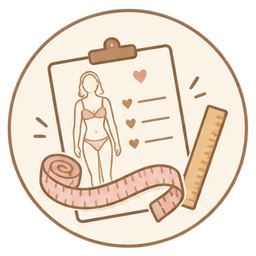
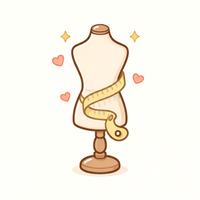
換上韓系可愛風格的頂部圖示
身型、色彩、搭配、訂單換成 Canva 產生的新插畫，並補上一圈細圓框；
購物車暫時維持原圖。圖片網址加 ?v=2 避免瀏覽器快取舊圖。

diff --git a/index.html b/index.html
@@ -195,6 +195,8 @@ body {
   letter-spacing: 0.5px;
   pointer-events: none;
 }
+/* ★ 新版韓系圖示（Canva 產生，圖裡沒畫圓框）補一圈和舊圖一致的細框 */
+.cart-btn-icon.icon-ring { box-sizing: border-box; border: 1.5px solid #A68968; background: #FFFBF2; }
 .cart-btn-img:hover .cart-btn-label { transform: translateX(-50%) scale(0.91); } /* 抵銷按鈕放大，字不跟著變大 */
 .cart-btn-icon {
   width: 100%;
@@ -3444,18 +3446,18 @@ body.halloween-mode .product-card:active {
       <input type="text" class="search-input" id="searchInput" placeholder="搜尋商品..." autocomplete="off">
     </div>
     <button class="cart-btn cart-btn-img" onclick="goBodyCheck()" aria-label="身型診斷" title="身型診斷">
-      <img src="./icons/body-check.png" alt="" class="cart-btn-icon"><span class="cart-btn-label">身型</span>
+      <img src="./icons/body-check.png?v=2" alt="" class="cart-btn-icon icon-ring"><span class="cart-btn-label">身型</span>
     </button>
     <!-- 🎨 色彩心理測驗 (v2.9.48) -->
     <button class="cart-btn cart-btn-img" onclick="goColorTest()" aria-label="色彩心理測驗" title="色彩心理測驗">
-      <img src="./icons/color-test.png" alt="" class="cart-btn-icon"><span class="cart-btn-label">色彩</span>
+      <img src="./icons/color-test.png?v=2" alt="" class="cart-btn-icon icon-ring"><span class="cart-btn-label">色彩</span>
     </button>
     <!-- 👗 搭配小劇場按鈕（開發中隱藏，Wan 自己調整完畢再開放） -->
     <button class="cart-btn cart-btn-img" id="dressupBtn" onclick="goDressup()" aria-label="搭配小劇場" title="搭配小劇場" style="display:none;">
-      <img src="./icons/dressup.png" alt="" class="cart-btn-icon"><span class="cart-btn-label">搭配</span>
+      <img src="./icons/dressup.png?v=2" alt="" class="cart-btn-icon icon-ring"><span class="cart-btn-label">搭配</span>
     </button>
     <button class="cart-btn cart-btn-img" id="myOrdersBtn" onclick="goMyOrders()" aria-label="我的訂單">
-      <img src="./icons/orders.png" alt="" class="cart-btn-icon"><span class="cart-btn-label">訂單</span>
+      <img src="./icons/orders.png?v=2" alt="" class="cart-btn-icon icon-ring"><span class="cart-btn-label">訂單</span>
       <span class="cart-badge" id="myOrdersBadge" data-count="0"></span>
     </button>
     <button class="cart-btn cart-btn-img" onclick="openCart()" aria-label="購物車">
